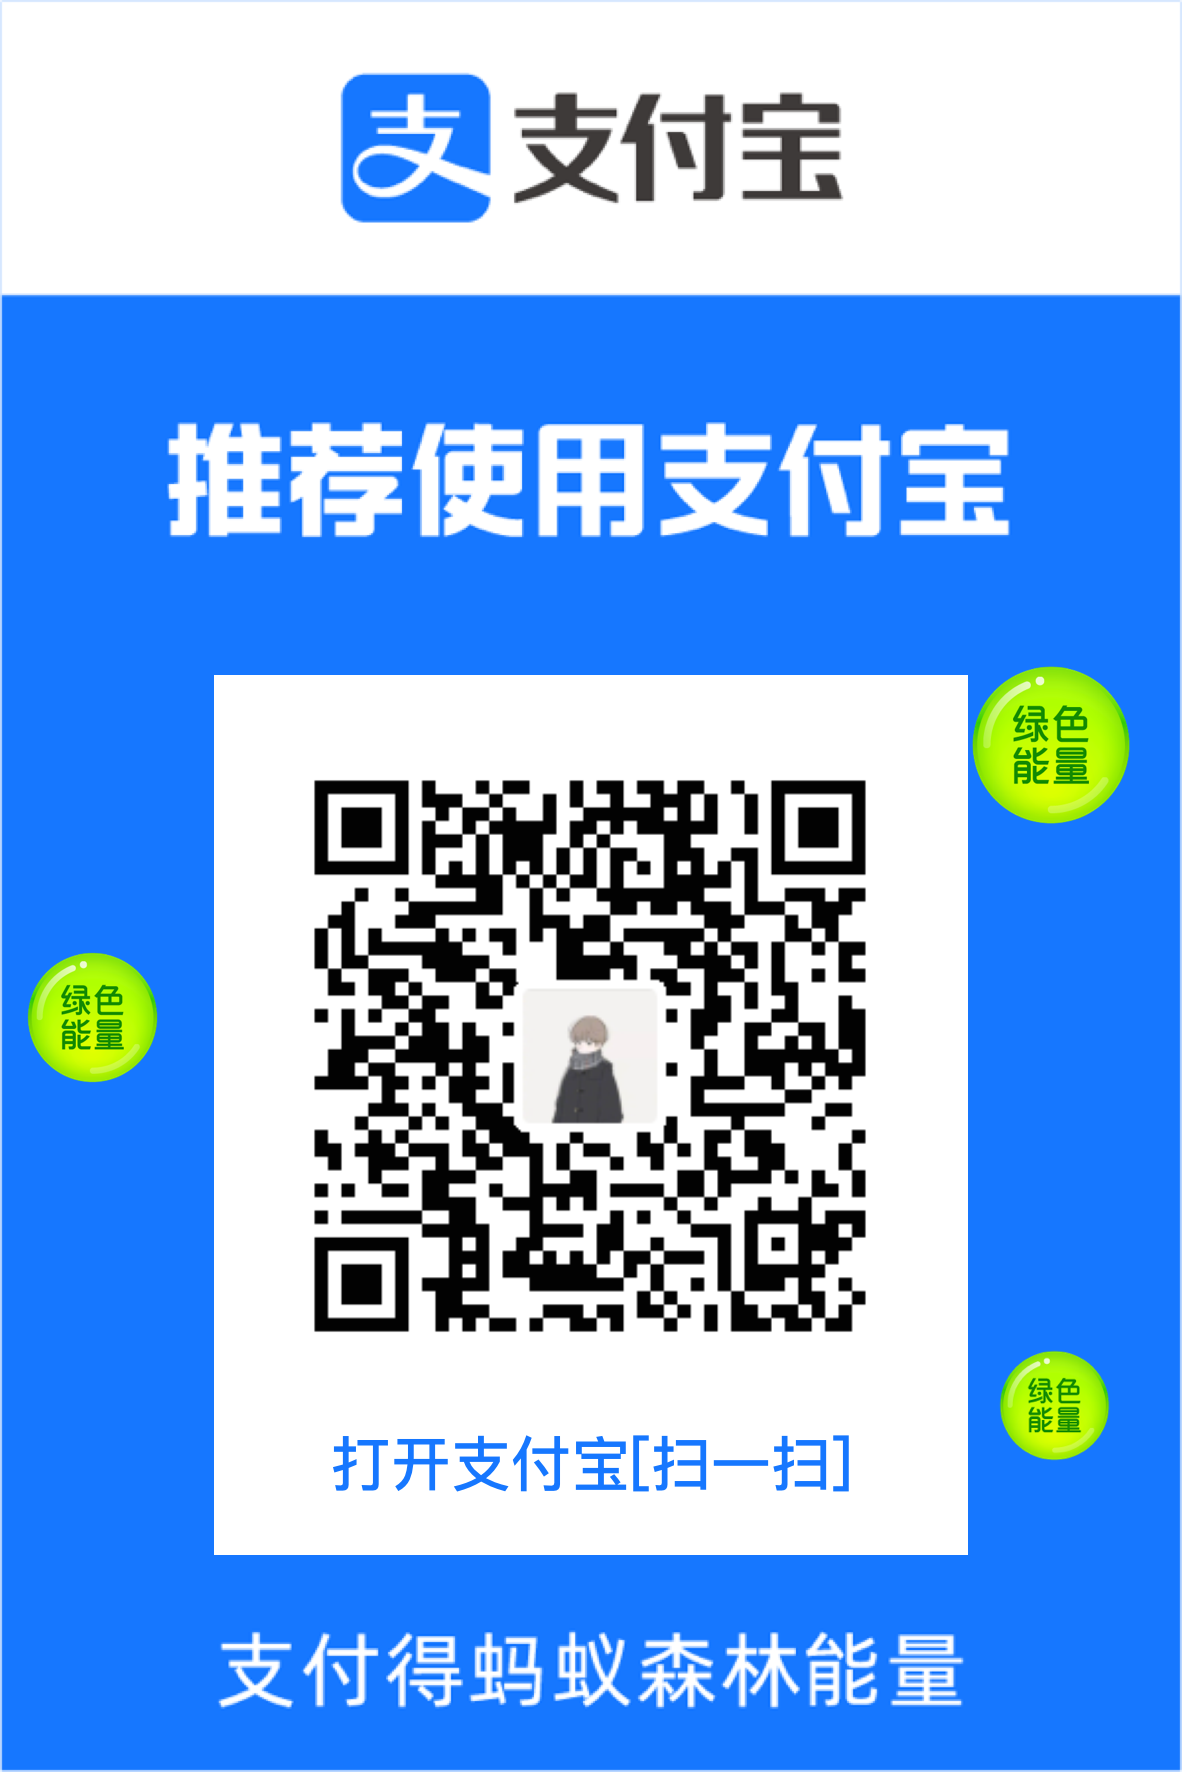
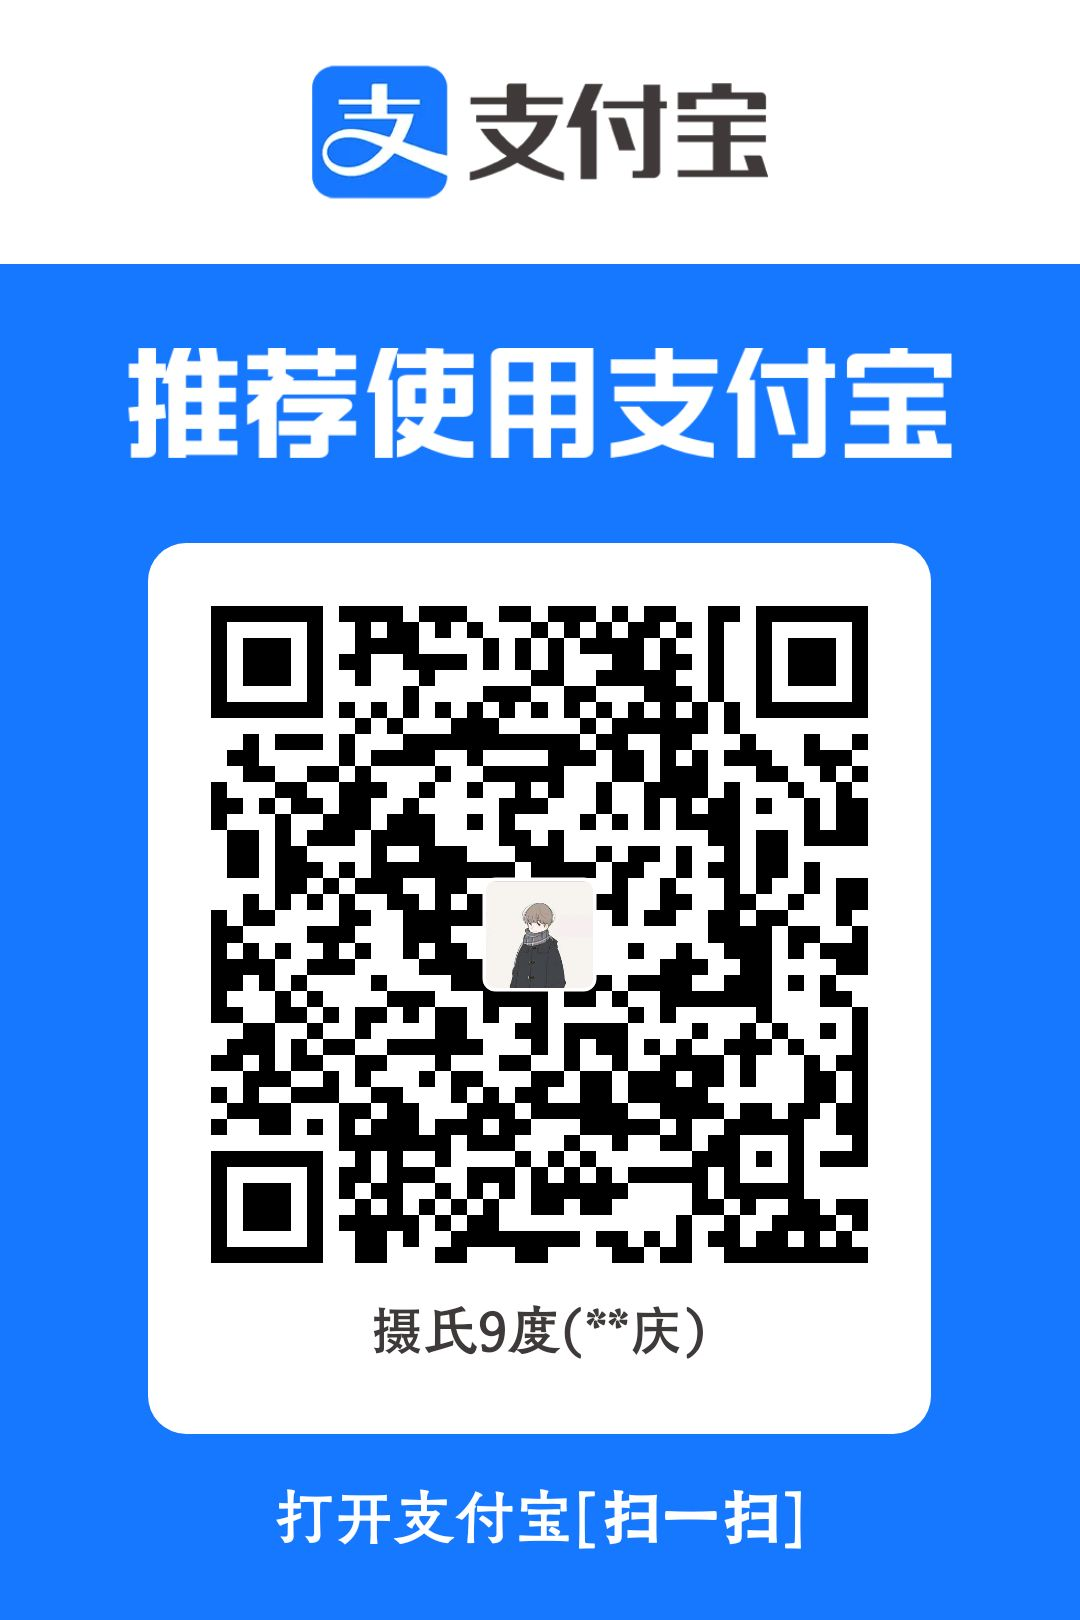
1.7.7：赞赏加支付宝一键跳转，换新支付宝码，README 赞赏移到下载上方

diff --git a/app/src/main/java/com/magpie/android/NativeHome.java b/app/src/main/java/com/magpie/android/NativeHome.java
@@ -1224,6 +1224,15 @@ public class NativeHome extends Activity {
         tip.setLayoutParams(ui.matchWrap(8));
         box.addView(tip);
 
+        // 支付宝一键跳转：收款码的二维码内容就是一个 https 链接，
+        // 点按钮直接拉起支付宝到付款页，不用扫码
+        TextView alipayBtn = ui.pill("用支付宝赞赏（不用扫码）",
+                M3.PRIMARY_CONTAINER, M3.ON_PRIMARY_CONTAINER);
+        alipayBtn.setPadding(ui.dp(18), ui.dp(11), ui.dp(18), ui.dp(11));
+        alipayBtn.setLayoutParams(ui.matchWrap(10));
+        alipayBtn.setOnClickListener(v -> openAlipayDonate());
+        box.addView(alipayBtn);
+
         // 微信赞赏码
         box.addView(ui.text("微信", 13, M3.ON_SURFACE, true));
         android.widget.ImageView wx = new android.widget.ImageView(this);
@@ -1265,6 +1274,25 @@ public class NativeHome extends Activity {
                 .create();
         styleDialog(dlg);
         dlg.show();
+    }
+
+    /** 支付宝收款码解出的 URL：点开直接跳支付宝付款页。 */
+    private static final String ALIPAY_DONATE_URL = "https://qr.alipay.com/fkx14569btoofplf4ketx74";
+
+    /** 一键跳支付宝赞赏：ACTION_VIEW 打开收款链接；没装支付宝则提示。 */
+    private void openAlipayDonate() {
+        try {
+            Intent i = new Intent(Intent.ACTION_VIEW, Uri.parse(ALIPAY_DONATE_URL));
+            i.addFlags(Intent.FLAG_ACTIVITY_NEW_TASK);
+            startActivity(i);
+        } catch (Exception e) {
+            // 没装支付宝/浏览器：退回复制链接
+            ClipboardManager cm = (ClipboardManager) getSystemService(CLIPBOARD_SERVICE);
+            if (cm != null) {
+                cm.setPrimaryClip(ClipData.newPlainText("magpie", ALIPAY_DONATE_URL));
+            }
+            toast("打不开支付宝，链接已复制：" + ALIPAY_DONATE_URL);
+        }
     }
 
     /** 点赞赏码放大看，方便对方扫码。 */

diff --git a/README.md b/README.md
@@ -9,6 +9,18 @@
 [![Android](https://img.shields.io/badge/Android-7.0%2B-3DDC84?logo=android&logoColor=white)](https://github.com/yqing004-boop/magpie-android/releases/latest)
 [![License](https://img.shields.io/badge/upstream-MIT-blue.svg)](https://github.com/yetone/magpie/blob/main/LICENSE)
 
+## 赞赏
+
+如果这个移植对你有用，可以请我喝杯咖啡。
+
+[**💙 用支付宝赞赏（点开直接跳，不用扫码）**](https://qr.alipay.com/fkx14569btoofplf4ketx74)
+
+微信赞赏请扫码（微信限制了外部跳转，只能扫码）：
+
+<img src="assets/donate/wechat.jpg" width="220" alt="微信赞赏码">
+
+**赞赏纯属自愿，不构成任何服务承诺或售后义务**；magpie 本体由 [yetone](https://github.com/yetone/magpie) 开发，本项目只是非官方 Android 移植。
+
 ## 下载 [下载最新版 APK（GitHub Releases）](https://github.com/yqing004-boop/magpie-android/releases/latest)**
 
 当前只提供 **Android arm64 / arm64-v8a** 包，最低 Android 7.0（API 24）。下载后直接安装；升级请覆盖安装，不要先卸载，否则 Magpie 的本地配置、账号和数据可能被清除。
@@ -115,15 +127,5 @@ sh scripts/build-apk-local.sh
 - 问题反馈请发 [GitHub Issues](https://github.com/yqing004-boop/magpie-android/issues)。
 - **侵权联系删除**：如认为本仓库内容或 APK 涉及版权、商标或其他权益问题，请通过 GitHub Issue 联系维护者并说明权利归属及涉及内容；收到后会核实并及时处理。
 
-## 赞赏
-
-如果这个移植对你有用，可以请我喝杯咖啡。
-
-**赞赏纯属自愿，不构成任何服务承诺或售后义务**；magpie 本体由 [yetone](https://github.com/yetone/magpie) 开发，本项目只是非官方 Android 移植。
-
-| 微信赞赏码 | 支付宝收款码 |
-|---|---|
-| ![微信赞赏](assets/donate/wechat.jpg) | ![支付宝](assets/donate/alipay.jpg) |
-
-> App 内也有入口：菜单 → 赞赏作者
+> App 内也有赞赏入口：菜单 → 赞赏作者（含支付宝一键跳转）
 
